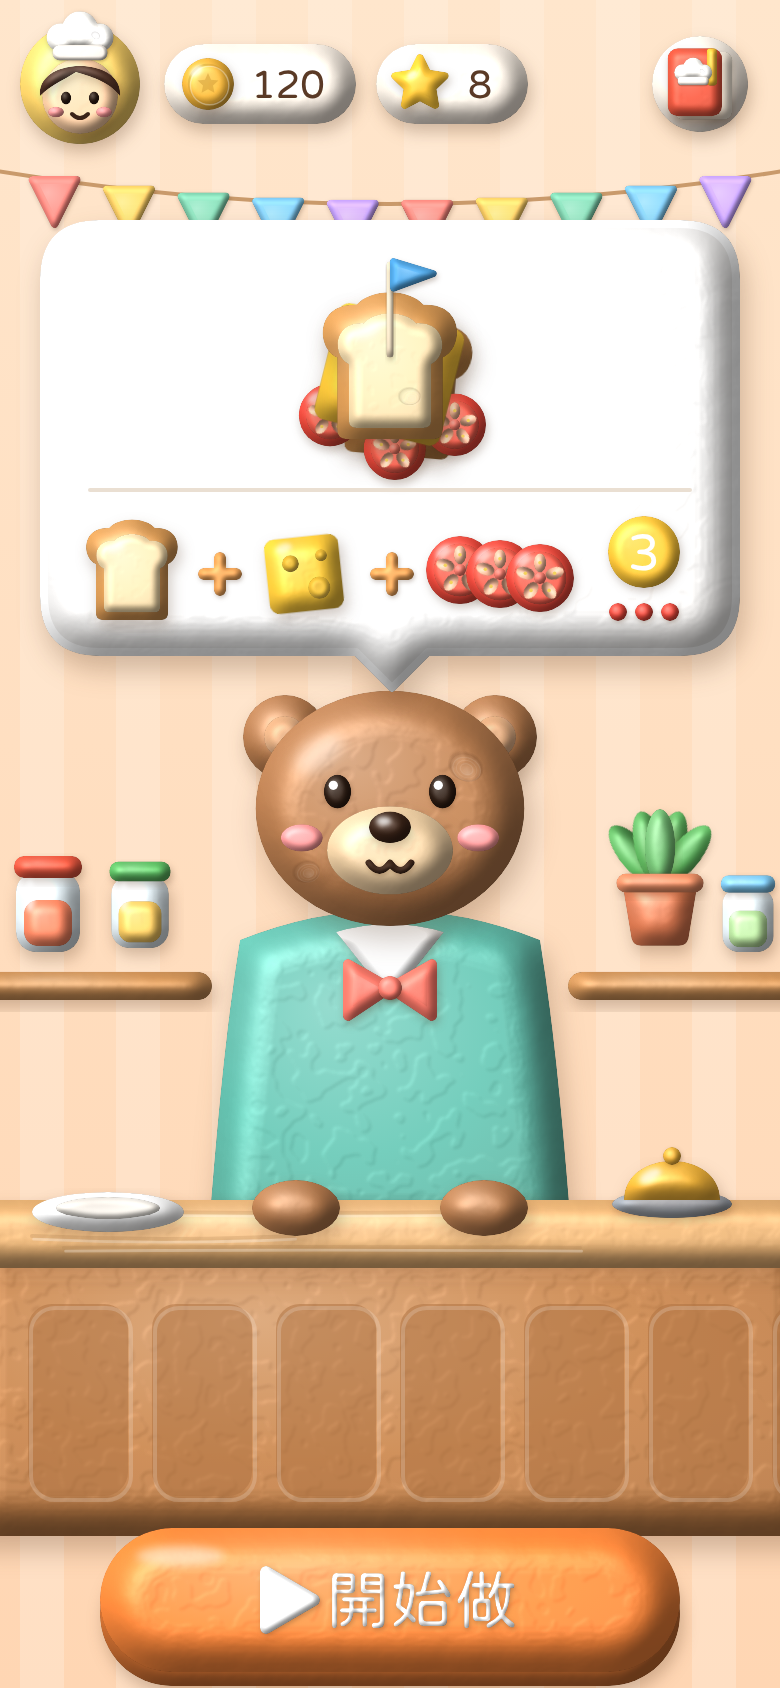
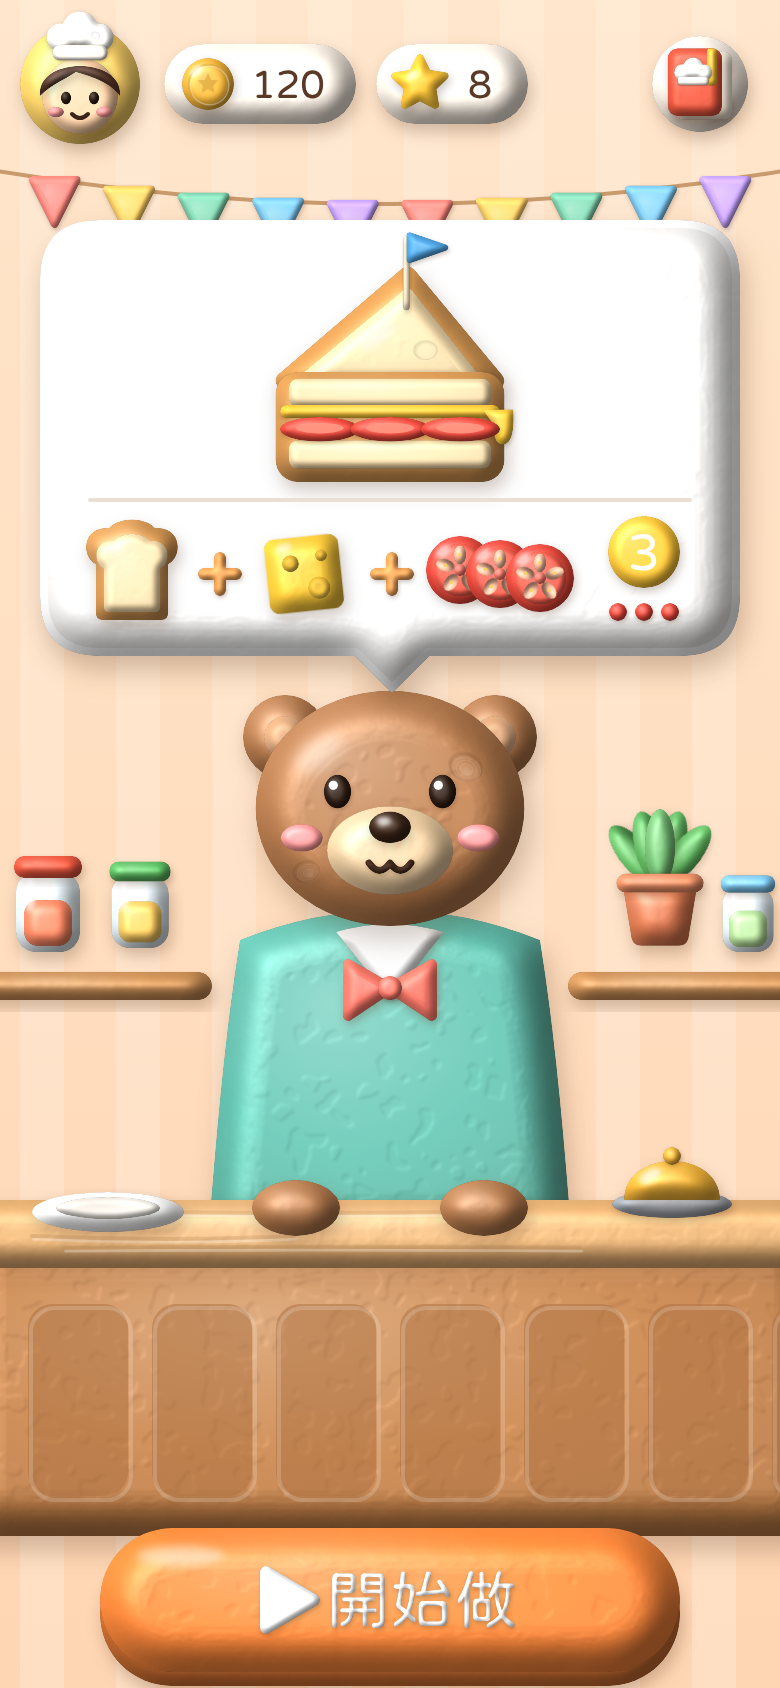
Mockups: three style options and six screens in the clay style
Claude-Session: https://claude.ai/code/session_01BbiyifD8DbrBNFwMqjGuML

Changed region(s): [[0.1231, 0.1232, 0.8923, 0.3081]]

diff --git a/docs/mockups/make_mockups.py b/docs/mockups/make_mockups.py
@@ -1,4 +1,4 @@
-"""Design-stage sketches for the cooking game (小廚師).
+"""Design-stage sketches for the cooking game (name not decided yet).
 
     python3 make_mockups.py        # writes docs/mockups/*.png (needs Node.js and Playwright)
 
@@ -113,10 +113,10 @@ def cf(size="m", shadow=True, wide=False, rot=0):
     rot: how much the piece is turned, so the light still comes from the top left of the screen."""
     b = CLAY[size]
     k = f"cf-{size}-{int(shadow)}{int(wide)}" + (f"_r{rot}" if rot else "")
-    az = 225 - rot
+    az = (225 - rot) % 360
     ca, sa = math.cos(math.radians(-rot)), math.sin(math.radians(-rot))
     sdx, sdy = b * .3 * ca - b * .75 * sa, b * .3 * sa + b * .75 * ca
-    nz = {"xs": 0, "s": .012, "m": .018, "l": .016, "xl": .011}[size]
+    nz = {"xs": 0, "s": .012, "m": .016, "l": .012, "xl": .006}[size]
     nf = min(.09, .62 / b)
     bump = (f'<feTurbulence type="fractalNoise" baseFrequency="{nf:.3f}" numOctaves="2" seed="4" result="n"/>'
             f'<feComposite in="b0" in2="n" operator="arithmetic" k2="0.86" k3="{nz}" result="b"/>') if nz else '<feOffset in="b0" result="b"/>'
@@ -190,6 +190,8 @@ def _respin(m, rot):
 def G(inner, x=0, y=0, s=1, rot=0, extra=""):
     if rot:
         inner = _REF.sub(lambda m: _respin(m, round(rot)), inner)
+        if abs(rot) % 360 == 180:   # Chromium draws lighting filters dark when turned exactly half way round
+            rot = 179.5
     return f'<g transform="translate({x} {y}) rotate({rot}) scale({s})" {extra}>{inner}</g>'
 
 
@@ -542,18 +544,23 @@ TOAST = ("M -22 24 L -22 -6 C -31 -10 -31 -29 -14 -28 C -8 -35 8 -35 14 -28 C 31
 
 
 def sandwich(flag=True):
-    """Toast sandwich seen from above: cheese corners and 3 tomato slices peek out. About 76 wide, 80 tall."""
-    o = [cl("path", dk(CRUST, .08), f'd="{TOAST}" transform="translate(5 7) rotate(5)"', "m")]
-    for x, y in ((-25, 18), (27, 22), (2, 32)):
-        o.append(G(tomato_slice(13), x, y))
-    o.append(cl("rect", CHEESE, 'x="-27" y="-24" width="54" height="50" rx="5" transform="rotate(14)"', "m"))
-    o.append(cl("path", CRUST, f'd="{TOAST}"', "m"))
-    o.append(cl("path", CRUMB, f'd="{TOAST}" transform="translate(0 1.5) scale(.78)"', "s", shadow=False))
-    o.append(hl(-10, -17, 7, 3, -20, .6))
-    o.append(dent(8, 10, 5, 0, .8))
+    """Triangle toast sandwich (like the breakfast shop): the cut face shows bread, cheese, 3 tomato slices, bread.
+    About 104 wide, 100 tall (y -50..50)."""
+    o = [cl("path", CRUST, 'd="M -48 4 L 8 -44 L 48 4 Z" stroke="{c}" stroke-width="8" stroke-linejoin="round"'.format(c=CRUST), "m"),
+         cl("path", CRUMB, 'd="M -38 3 L 8 -35 L 38 3 Z" stroke="{c}" stroke-width="6" stroke-linejoin="round"'.format(c=CRUMB), "s", shadow=False),
+         hl(-6, -16, 9, 3, -40, .55),
+         dent(16, -10, 6, 0, .7)]
+    o.append(cl("rect", CRUST, 'x="-52" y="0" width="104" height="50" rx="10"', "m"))
+    o.append(cl("rect", CRUMB, 'x="-46" y="3" width="92" height="13" rx="4"', "xs", shadow=False))
+    o.append(cl("rect", CRUMB, 'x="-46" y="31" width="92" height="13" rx="4"', "xs", shadow=False))
+    o.append(cl("rect", CHEESE, 'x="-50" y="15" width="100" height="6" rx="3"', "xs"))
+    o.append(cl("path", CHEESE, 'd="M 42 17 L 56 17 Q 57 33 51 33 Q 47 33 47 24 Z"', "xs"))
+    for x in (-32, 0, 32):
+        o.append(cl("ellipse", TOMATO, f'cx="{x}" cy="26" rx="18" ry="5.6"', "xs"))
+        o.append(f'<ellipse cx="{x}" cy="25.5" rx="11" ry="2.4" fill="#FF9A85" opacity=".85"/>')
     if flag:
-        o.append(cl("rect", "#F3E2C4", 'x="-1.5" y="-46" width="3" height="40" rx="1.5"', "xs"))
-        o.append(cl("path", "#4FA3E0", 'd="M 1.5 -46 L 18 -41 L 1.5 -35 Z" stroke="#4FA3E0" stroke-width="3" stroke-linejoin="round"', "xs"))
+        o.append(cl("rect", "#F3E2C4", 'x="6" y="-62" width="3" height="34" rx="1.5"', "xs"))
+        o.append(cl("path", "#4FA3E0", 'd="M 9 -62 L 25 -56.5 L 9 -51 Z" stroke="#4FA3E0" stroke-width="3" stroke-linejoin="round"', "xs"))
     return "".join(o)
 
 
@@ -573,7 +580,7 @@ def cabbage():
     o.append(cl("path", "#A9DC78", 'd="M -26 8 C -30 -22 -4 -30 6 -24 C -10 -14 -14 4 -6 26 C -16 24 -24 18 -26 8 Z"', "s"))
     o.append(cl("path", "#A9DC78", 'd="M 26 6 C 30 -20 10 -30 -2 -26 C 14 -14 16 6 6 26 C 16 24 24 16 26 6 Z"', "s"))
     o.append(cl("circle", "#D4F0A6", 'cx="0" cy="-2" r="13"', "s"))
-    o.append(f'<path d="M -16 14 Q -12 0 -16 -12 M 15 14 Q 11 0 15 -12" stroke="#EAF8CF" stroke-width="2" fill="none" opacity=".8" stroke-linecap="round"/>')
+    o.append('<path d="M -16 14 Q -12 0 -16 -12 M 15 14 Q 11 0 15 -12" stroke="#EAF8CF" stroke-width="2" fill="none" opacity=".8" stroke-linecap="round"/>')
     o.append(hl(-12, -18, 6, 3.5, -30, .5))
     return "".join(o)
 
@@ -587,7 +594,7 @@ def knife(scale=1.0):
     o = [cl("rect", "#5BBE7A", 'x="-11" y="-62" width="22" height="50" rx="11"', "m"),
          cl("circle", lt("#5BBE7A", .4), 'cx="0" cy="-50" r="4"', "xs", shadow=False, inv=True),
          cl("path", "#D8E8F4", 'd="M -10 -12 L 10 -12 L 12 44 C 12 62 -12 64 -12 44 Z"', "m"),
-         f'<path d="M 11 -6 ' + " ".join(f"l -2.4 3.5 l 2.4 3.5" for _ in range(6)) + '" fill="none" stroke="#B9CDDD" stroke-width="1.6" stroke-linejoin="round"/>',
+         '<path d="M 11 -6 ' + " ".join("l -2.4 3.5 l 2.4 3.5" for _ in range(6)) + '" fill="none" stroke="#B9CDDD" stroke-width="1.6" stroke-linejoin="round"/>',
          hl(-4, 14, 2.5, 18, 0, .55)]
     return G("".join(o), s=scale)
 
@@ -782,8 +789,8 @@ def screen_order():
     o.append(cl("ellipse", "#F1ECE4", 'cx="54" cy="604" rx="26" ry="5.5"', "xs", shadow=False, inv=True))
     # order bubble (pictures only)
     o.append(speech_bubble(22, 112, 346, 214, 196, 344))
-    o.append(G(sandwich(), 195, 186, 1.2))
-    o.append(f'<rect x="44" y="244" width="302" height="2" rx="1" fill="#EADFD2"/>')
+    o.append(G(sandwich(), 195, 186, 1.1))
+    o.append('<rect x="44" y="249" width="302" height="2" rx="1" fill="#EADFD2"/>')
     o.append(G(bread_slice(), 66, 287, .82))
     o.append(plus(110, 287, 8))
     o.append(G(cheese_slice(), 152, 287, .85))
@@ -817,7 +824,7 @@ def foam(lst):
 
 
 def hands_bubbles():
-    o = [G(kid_hand(-1), -19, 8, 1.15, -16), G(kid_hand(1), 19, 8, 1.15, 16)]
+    o = [G(kid_hand(-1), -22, 8, 1.15, -14), G(kid_hand(1), 22, 8, 1.15, 14)]
     o.append(foam([(-6, -6, 7), (2, -12, 8), (8, -2, 6), (-2, 4, 6), (-24, -16, 5), (24, -14, 5)]))
     o.append(bubbles([(-30, -34, 9), (0, -44, 12), (28, -30, 8), (-8, 6, 7), (40, 4, 6), (-40, 0, 5), (16, -14, 5)]))
     return "".join(o)
@@ -837,7 +844,7 @@ def wash_tomato():
     o = [cl("rect", "#AEB7C2", 'x="-46" y="-56" width="30" height="16" rx="7"', "s"),
          cl("path", "#AEB7C2", 'd="M -24 -56 L 6 -56 Q 22 -56 22 -40 L 22 -30 L 8 -30 L 8 -38 Q 8 -42 4 -42 L -24 -42 Z"', "m"),
          cl("rect", "#E8573F", 'x="-38" y="-66" width="12" height="10" rx="4"', "xs")]
-    o.append(f'<path d="M 15 -30 C 11 -18 19 -8 15 6" stroke="#8FD3F5" stroke-width="10" stroke-linecap="round" fill="none" opacity=".75"/>')
+    o.append('<path d="M 15 -30 C 11 -18 19 -8 15 6" stroke="#8FD3F5" stroke-width="10" stroke-linecap="round" fill="none" opacity=".75"/>')
     o.append(G(tomato("clay"), 12, 26, .55))
     o.append(bubbles([(-14, 14, 6), (36, 20, 7), (30, 0, 4), (-10, -6, 4)]))
     for x, y in ((-6, 46), (34, 44), (-18, 30)):
@@ -857,9 +864,9 @@ def cut_tomato_icon():
 
 def stack_icon():
     o = [G(cl("rect", CRUST, 'x="-40" y="-8" width="80" height="16" rx="8"', "s"), 0, 40)]
-    o.append(G(cl("rect", CHEESE, 'x="-36" y="-6" width="72" height="12" rx="4"', "s"), 0, 18))
     for x in (-22, 0, 22):
-        o.append(cl("ellipse", TOMATO, f'cx="{x}" cy="0" rx="12" ry="6"', "xs"))
+        o.append(cl("ellipse", TOMATO, f'cx="{x}" cy="19" rx="12" ry="6"', "xs"))
+    o.append(G(cl("rect", CHEESE, 'x="-36" y="-6" width="72" height="12" rx="4"', "s"), 0, 0))
     o.append(G(cl("rect", CRUST, 'x="-40" y="-9" width="80" height="18" rx="8"', "s")
                + cl("rect", CRUMB, 'x="-34" y="-6" width="68" height="6" rx="3"', "xs", shadow=False), 0, -22))
     o.append(cw("M 52 -30 V 28", "#FFB23F", 6, "xs", box=(44, -36, 16, 70)))
@@ -872,7 +879,7 @@ def screen_recipe():
     o.append(back_btn())
     o.append(title_chip("食譜", icon=G(book_icon(), 0, 0, .7)))
     o.append(cl("rect", CREAM, 'x="14" y="84" width="362" height="652" rx="34"', "xl"))
-    o.append(G(sandwich(flag=False), 195, 160, 1.25))
+    o.append(G(sandwich(flag=False), 195, 160, 1.2))
     o.append(tx(195, 252, "番茄起司三明治", 22, INK))
     steps = [("洗手", hands_bubbles, "done"), ("洗番茄", wash_tomato, "now"), ("切番茄", cut_tomato_icon, ""), ("疊起來", stack_icon, "")]
     for i, (label, pic, state) in enumerate(steps):
@@ -914,28 +921,28 @@ def screen_cut():
     o.append(cl("rect", dk(WOOD, .2), 'x="180" y="236" width="30" height="14" rx="7"', "xs", shadow=False, inv=True))
     o.append(wood_grooves(40, 280, 310, 390, 9, seed=8))
     # tomato with its right side cut off
-    D.add("cut3", '<clipPath id="cut3"><rect x="-80" y="-80" width="118" height="160"/></clipPath>')
+    D.add("cut3", '<clipPath id="cut3"><rect x="-80" y="-80" width="124" height="160"/></clipPath>')
     body = cl("path", TOMATO, f'd="{TOMATO_BODY}"', "l")
-    cutface = (cl("ellipse", "#F65E4C", 'cx="38" cy="5" rx="8" ry="40"', "s", shadow=False)
-               + cl("ellipse", "#FF9A85", 'cx="38.5" cy="5" rx="4.5" ry="33"', "xs", shadow=False)
-               + "".join(cl("ellipse", "#FFD0B5", f'cx="38.5" cy="{yy}" rx="2.4" ry="6"', "xs", shadow=False) for yy in (-16, 5, 26)))
+    cutface = (cl("ellipse", "#F65E4C", 'cx="44" cy="6" rx="7" ry="34"', "s", shadow=False)
+               + cl("ellipse", "#FF9A85", 'cx="44.5" cy="6" rx="4" ry="28"', "xs", shadow=False)
+               + "".join(cl("ellipse", "#FFD0B5", f'cx="44.5" cy="{yy}" rx="2.2" ry="5"', "xs", shadow=False) for yy in (-12, 6, 24)))
     tom = f'<g clip-path="url(#cut3)">{body}{hl(-26, -12, 10, 6, -40, .5)}{dent(-20, 22, 8, 10, .8)}</g>{cutface}'
     leaves = "".join(f'<ellipse cx="{math.cos(math.radians(a)) * 11:.1f}" cy="{-35 + math.sin(math.radians(a)) * 6:.1f}" rx="12.5" ry="5.2" '
                      f'fill="{cg(LEAF)}" transform="rotate({a} {math.cos(math.radians(a)) * 11:.1f} {-35 + math.sin(math.radians(a)) * 6:.1f})"/>' for a in (-54, 18, 90, 162, 234))
     tom += clg(leaves, "s") + cl("rect", STEM, 'x="-3.5" y="-52" width="7" height="15" rx="3.5"', "xs")
     o.append(G(tom, 148, 470, 1.7))
     # two slices lying aside
-    o.append(G(tomato_slice(36), 302, 420))
-    o.append(G(tomato_slice(36), 310, 515))
+    o.append(G(tomato_slice(34), 314, 420))
+    o.append(G(tomato_slice(34), 318, 512))
     # dashed swipe line
-    o.append(f'<line x1="198" y1="330" x2="198" y2="612" stroke="{INK}" stroke-width="7" stroke-linecap="round" stroke-dasharray="1 18" opacity=".14" transform="translate(1.5 2)"/>')
-    o.append(f'<line x1="198" y1="330" x2="198" y2="612" stroke="#fff" stroke-width="7" stroke-linecap="round" stroke-dasharray="1 18"/>')
+    o.append(f'<line x1="188" y1="330" x2="188" y2="612" stroke="{INK}" stroke-width="7" stroke-linecap="round" stroke-dasharray="1 18" opacity=".14" transform="translate(1.5 2)"/>')
+    o.append('<line x1="188" y1="330" x2="188" y2="612" stroke="#fff" stroke-width="7" stroke-linecap="round" stroke-dasharray="1 18"/>')
     # knife at the top of the line
-    o.append(G(knife(), 198, 266, .9, -6))
+    o.append(G(knife(), 188, 266, .9, -6))
     # hint finger and arrow showing the swipe goes down
-    o.append(cw("M 238 404 V 540", "#FFFFFF", 7, "xs", box=(228, 394, 20, 156)))
-    o.append(cl("path", "#FFFFFF", 'd="M 226 534 L 250 534 L 238 552 Z" stroke="#fff" stroke-width="6" stroke-linejoin="round"', "xs"))
-    o.append(G(pointer_hand(180, .8), 238, 396))
+    o.append(cw("M 252 404 V 540", "#FFFFFF", 7, "xs", box=(242, 394, 20, 156)))
+    o.append(cl("path", "#FFFFFF", 'd="M 240 534 L 264 534 L 252 552 Z" stroke="#fff" stroke-width="6" stroke-linejoin="round"', "xs"))
+    o.append(G(pointer_hand(180, .8), 252, 396))
     # plate with bread and cheese waiting
     o.append(cl("ellipse", "#FFFFFF", 'cx="195" cy="770" rx="96" ry="44"', "l"))
     o.append(cl("ellipse", "#F2ECE3", 'cx="195" cy="768" rx="68" ry="28"', "s", shadow=False, inv=True))
@@ -948,9 +955,11 @@ def pancake():
     r = random.Random(4)
     o = [cl("circle", "#F2CB80", 'r="94"', "l")]
     o.append(f'<circle r="88" fill="none" stroke="#D99A45" stroke-width="8" opacity=".4" filter="{blur(4)}"/>')
-    o.append(f'<path d="M -62 -30 C -50 -70 10 -76 44 -54 C 76 -34 74 10 60 36 C 42 70 -10 74 -40 56 C -70 36 -74 0 -62 -30 Z" fill="#FFE07A" opacity=".85" filter="{blur(5)}"/>')
-    for x, y, rx, ry, a in ((-24, -20, 26, 15, 20), (22, 14, 22, 13, -30), (-6, 36, 18, 10, 10), (30, -36, 14, 8, 40)):
-        o.append(f'<ellipse cx="{x}" cy="{y}" rx="{rx}" ry="{ry}" fill="#FFF3B8" opacity=".8" transform="rotate({a} {x} {y})" filter="{blur(4)}"/>')
+    o.append(f'<path d="M -62 -30 C -50 -70 10 -76 44 -54 C 76 -34 74 10 60 36 C 42 70 -10 74 -40 56 C -70 36 -74 0 -62 -30 Z" fill="#FFDB5C" opacity=".9" filter="{blur(5)}"/>')
+    for x, y, rx, ry, a in ((-24, -20, 24, 13, 20), (22, 14, 20, 11, -30), (-6, 38, 16, 9, 10), (30, -36, 13, 7, 40), (-46, 14, 10, 7, 60)):
+        o.append(f'<ellipse cx="{x}" cy="{y}" rx="{rx}" ry="{ry}" fill="#FFF8DC" opacity=".9" transform="rotate({a} {x} {y})" filter="{blur(3.5)}"/>')
+    for x, y, rx, ry in ((6, -10, 12, 8), (-30, 30, 10, 6), (44, -12, 9, 6)):
+        o.append(f'<ellipse cx="{x}" cy="{y}" rx="{rx}" ry="{ry}" fill="#FFB52E" opacity=".55" filter="{blur(3)}"/>')
     for _ in range(10):
         a, d = r.uniform(0, 6.28), r.uniform(55, 84)
         o.append(f'<circle cx="{math.cos(a) * d:.0f}" cy="{math.sin(a) * d:.0f}" r="{r.uniform(4, 8):.1f}" fill="#C98535" opacity=".22" filter="{blur(2.5)}"/>')
@@ -1001,9 +1010,8 @@ def screen_pancake():
     o = [tiles_bg("#FFEFD9", 0, 130)]
     o.append(f'<rect x="0" y="120" width="{W}" height="{H - 120}" fill="#E9D3B8"/>')
     o.append(back_btn())
-    dish = (cl("ellipse", "#FFFFFF", 'cy="4" rx="22" ry="9"', "s")
-            + "".join(cl("rect", "#F2CB80", f'x="{x - 6}" y="-10" width="12" height="14" rx="5"', "xs")
-                      + f'<path d="M {x - 2} -5 a 2.5 2.5 0 1 1 2 3" stroke="#D99A45" stroke-width="1.4" fill="none"/>' for x in (-13, 0, 13)))
+    dish = (cl("circle", PAN, 'r="16"', "s") + cl("circle", "#F2CB80", 'r="12"', "xs", shadow=False)
+            + "".join(f'<rect x="{x - 2}" y="{y - 1.2}" width="4" height="2.4" rx="1.2" fill="#4FA83A"/>' for x, y in ((-5, -4), (4, -6), (6, 3), (-3, 5), (0, 0))))
     o.append(title_chip("煎蛋餅", icon=dish))
     # stove top
     o.append(cl("rect", "#5B6068", 'x="10" y="96" width="370" height="620" rx="40"', "xl"))
@@ -1068,15 +1076,19 @@ def basket(items=True):
         o.append(G(carrot(), -42, -26, .8, -30) + G(carrot(), -22, -34, .8, -12))
         o.append(G(cabbage(), 12, -20, .8))
         o.append(G(egg(), 46, -14, .9) + G(egg(), 60, -24, .9) + G(egg(), 40, -32, .9))
-    o.append(cl("path", "#C98E55", 'd="M -86 -14 L 86 -14 L 72 60 Q 70 70 60 70 L -60 70 Q -70 70 -72 60 Z"', "l"))
+    body = "M -86 -14 L 86 -14 L 72 60 Q 70 70 60 70 L -60 70 Q -70 70 -72 60 Z"
+    o.append(cl("path", "#C98E55", f'd="{body}"', "l"))
+    D.add("basketclip", f'<clipPath id="basketclip"><path d="{body}" transform="translate(0 -1) scale(.94 .97)"/></clipPath>')
+    o.append('<g clip-path="url(#basketclip)">')
     for i, yy in enumerate((4, 20, 36, 52)):
-        half = 80 - i * 4
+        half = 90
         k = -half
         while k < half - 6:
             xx = k + (9 if i % 2 else 0)
             o.append(f'<rect x="{xx:.0f}" y="{yy - 6}" width="15" height="12" rx="6" fill="{dk("#C98E55", .22)}" opacity=".32"/>'
                      f'<rect x="{xx + 2:.0f}" y="{yy - 5}" width="10" height="4" rx="2" fill="#fff" opacity=".22"/>')
             k += 18
+    o.append('</g>')
     o.append(cl("rect", "#B9824A", 'x="-92" y="-22" width="184" height="18" rx="9"', "m"))
     return "".join(o)
 
@@ -1137,10 +1149,22 @@ def rice():
     lumps = "".join(f'<circle cx="{x}" cy="{y}" r="{rr}" fill="{cg("#FFFDF7")}"/>' for x, y, rr in
                     ((-18, 4, 16), (0, -6, 19), (18, 4, 16), (-6, 10, 15), (10, 12, 14)))
     o = [clg(lumps, "m")]
-    for _ in range(22):
-        x, y = r.uniform(-26, 26), r.uniform(-18, 18)
-        if (x / 30) ** 2 + ((y - 2) / 22) ** 2 < 1:
-            o.append(f'<ellipse cx="{x:.1f}" cy="{y:.1f}" rx="3" ry="1.6" fill="#EDE5D6" opacity=".9" transform="rotate({r.randint(0, 180)} {x:.1f} {y:.1f})"/>')
+    for _ in range(90):
+        x, y = r.uniform(-30, 30), r.uniform(-22, 24)
+        if (x / 31) ** 2 + ((y - 3) / 21) ** 2 < 1:
+            a = r.randint(0, 180)
+            o.append(f'<ellipse cx="{x:.1f}" cy="{y:.1f}" rx="3.2" ry="1.7" fill="#E4D9C6" transform="rotate({a} {x:.1f} {y:.1f})"/>'
+                     f'<ellipse cx="{x - .5:.1f}" cy="{y - .5:.1f}" rx="2.6" ry="1.2" fill="#FFFFFF" transform="rotate({a} {x:.1f} {y:.1f})"/>')
+    return "".join(o)
+
+
+def corn():
+    o = [cl("ellipse", "#8BC34A", 'cx="-6" cy="12" rx="7" ry="20" transform="rotate(-25 -6 12)"', "s"),
+         cl("rect", "#FFD23F", 'x="-11" y="-26" width="22" height="48" rx="11"', "m")]
+    for yy in range(-20, 18, 6):
+        for xx in (-5, 0, 5):
+            o.append(f'<circle cx="{xx}" cy="{yy}" r="2.2" fill="#FFE98A" opacity=".9"/>')
+    o.append(cl("ellipse", "#9CD35A", 'cx="8" cy="14" rx="6" ry="18" transform="rotate(25 8 14)"', "s"))
     return "".join(o)
 
 
@@ -1229,7 +1253,7 @@ def screen_plate():
         return cx + d * math.cos(math.radians(a)), cy + d * math.sin(math.radians(a))
     # foods
     x, y = at(218, 70)
-    o.append(G(rice(), x, y, 1.15))
+    o.append(G(rice(), x + 8, y + 6, 1.1) + G(corn(), x - 34, y + 14, .72, -30))
     x, y = at(100, 66)
     o.append(G(broccoli(), x - 22, y - 4, .95) + G(broccoli(), x + 18, y + 4, .8) + G(carrot(False), x + 2, y + 34, .55, -80) + G(carrot(False), x - 30, y + 28, .5, -60))
     x, y = at(12, 74)
@@ -1276,7 +1300,6 @@ def contact_sheet(names):
 
 
 def render(html, out, w, h, scale):
-    global D
     with tempfile.TemporaryDirectory() as tmp:
         p = pathlib.Path(tmp) / "page.html"
         p.write_text(html)
@@ -1292,7 +1315,7 @@ def main():
         render(make(), HERE / f"{name}.png", W, H, 2)
         print(name)
     html, w, h = contact_sheet(list(SCREENS))
-    render(html, HERE / "contact_sheet.png", w, h, 1)
+    render(html, HERE / "contact_sheet.png", w, h, 1.5)
     print("done")
 
 
